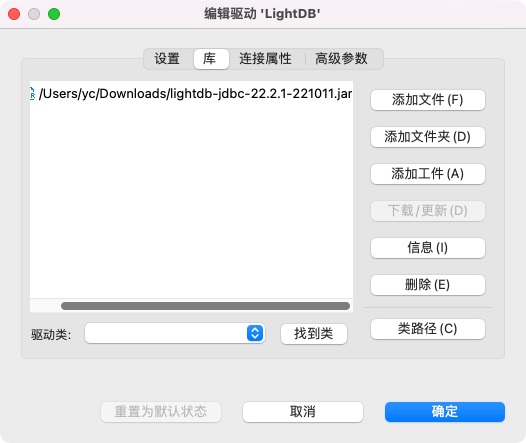
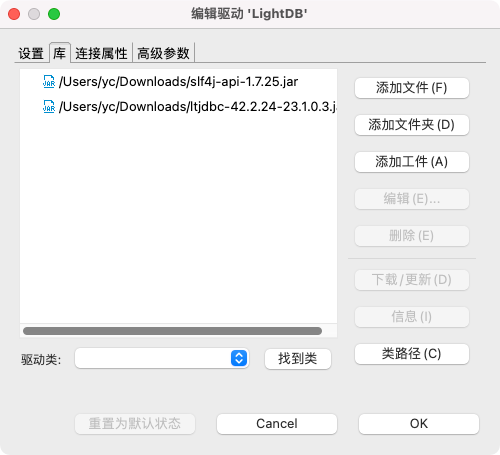
updates

diff --git a/README.md b/README.md
@@ -390,7 +390,8 @@ dbeaver下载地址：https://dbeaver.io/
 ![img_4.png](img_4.png)  
 点击"新建"后填入如下内容，同时选择"库"选项，添加LightDB驱动  
 ![img_5.png](img_5.png)
-![img_8.png](img_8.png)  
+上传2个jar文件
+![img_8.png](img_8.png)
 上述操作完成后，点击"确定"  
 ![img_6.png](img_6.png)  
 点击"关闭"之后，点击左上角加号，选择LightDB驱动程序  
@@ -398,7 +399,8 @@ dbeaver下载地址：https://dbeaver.io/
 
 填写数据库IP、端口、用户名、密码等信息，测试连接登录即可  
 ![img_9.png](img_9.png)
-
+最后更改LightDB兼容属性，小写oracle
+![img_10.png](img_10.png)
 
 ## 8、如何实现LightDB访问Oracle表
 ### 1、安装插件
